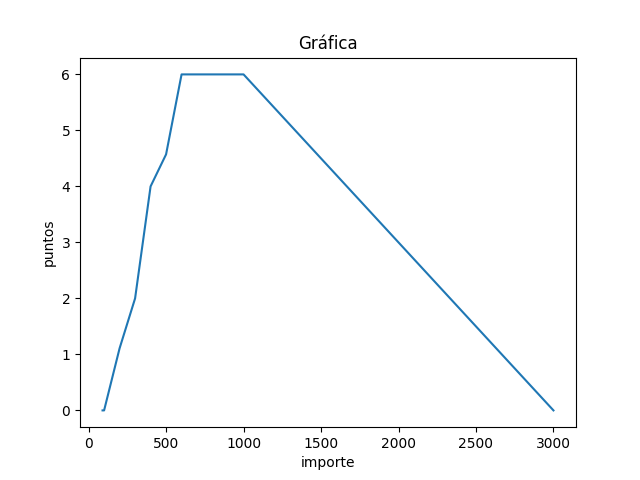
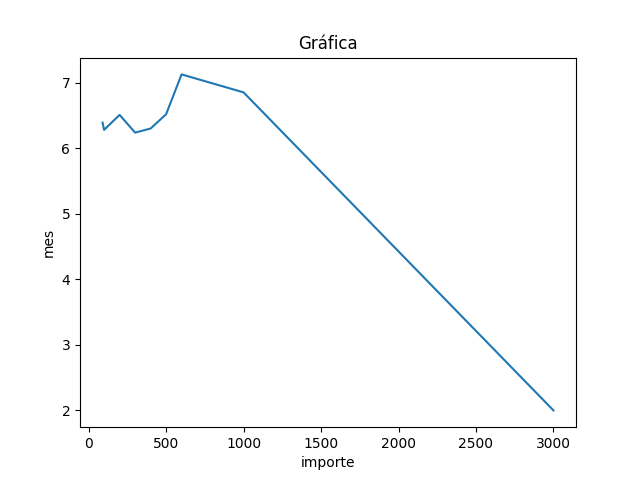
debug.analize

diff --git a/django_pandas/web_project/pandas_web/templates/pandas_web/dataset_analyze.html b/django_pandas/web_project/pandas_web/templates/pandas_web/dataset_analyze.html
@@ -27,26 +27,14 @@
             background-color: #f2f2f2;
         }
 
-        .checkbox-container {
+        .radio-container {
             display: flex;
-            justify-content: flex-end;
-            align-items: center; /* Centra verticalmente los checkboxes */
+            justify-content: center; /* Centra horizontalmente los botones de opción */
+            align-items: center; /* Centra verticalmente los botones de opción */
         }
 
-        .checkbox-container input[type="checkbox"] {
-            margin-left: 5px;
-        }
-
-        .checkbox-container {
-            display: flex;
-            justify-content: space-between; /* Distribuye el espacio entre los checkboxes */
-            align-items: center; /* Centra verticalmente los checkboxes */
-            width: 100%; /* Asegura que los checkboxes ocupen todo el ancho de la celda */
-        }
-
-        .checkbox-container input[type="checkbox"] {
-            flex: 1; /* Hace que los checkboxes ocupen el espacio disponible */
-            margin-left: 5px;
+        .radio-container input[type="radio"] {
+            margin: 0 5px; /* Espacio entre los botones de opción */
         }
 
         #chartContainer {
@@ -74,16 +62,16 @@
         <thead>
             <tr>
                 <th>Columnas</th> <!-- Etiqueta para las columnas de datos -->
-                <th>Eje X / Eje Y</th>
+                <th>EjeX / EjeY</th>
             </tr>
         </thead>
         <tbody>
            {% for column in dataset.datacolumn_set.all %}
             <tr>
                 <td>{{ column.name }} ({{ column.data_type }})</td>
-                <td class="checkbox-container">
-                    <input type="checkbox" name="columnas[]" value="{{ column.name }}">
-                    <input type="checkbox" name="columnas[]" value="{{ column.name }}">
+                <td class="radio-container">
+                    <input type="radio" name="columna_x" value="{{ column.name }}"> <!-- Usamos el nombre de la columna como valor -->
+                    <input type="radio" name="columna_y" value="{{ column.name }}"> <!-- Usamos el nombre de la columna como valor -->
                 </td>
             </tr>
             {% endfor %}
@@ -101,19 +89,22 @@
         $(document).ready(function() {
             // Manejar el clic en el botón "Analizar"
             $('#analyzeButton').click(function() {
-                var selectedColumns = [];
-                // Obtener las columnas seleccionadas
-                $('input[name="columnas[]"]:checked').each(function() {
-                    selectedColumns.push($(this).val());
-                });
+                var columnaX = $('input[name="columna_x"]:checked').val(); // Obtener el valor de la columna X seleccionada
+                var columnaY = $('input[name="columna_y"]:checked').val(); // Obtener el valor de la columna Y seleccionada
+
+                if (!columnaX || !columnaY) {
+                    alert('Por favor, seleccione una columna para Eje X y Eje Y.');
+                    return;
+                }
 
                 // Enviar la solicitud AJAX al backend
                 $.ajax({
                     type: 'POST',
-                    url: '{% url "analyze_data" dataset.pk %}',  //
+                    url: '{% url "analyze_data" dataset.pk %}',
                     data: {
                         'csrfmiddlewaretoken': '{{ csrf_token }}',
-                        'columnas[]': selectedColumns
+                        'columna_x': columnaX,
+                        'columna_y': columnaY
                     },
                     dataType: 'json',
                     success: function(response) {
@@ -130,5 +121,4 @@
     </script>
 </body>
 </html>
-
 

diff --git a/django_pandas/web_project/pandas_web/views.py b/django_pandas/web_project/pandas_web/views.py
@@ -182,19 +182,26 @@ class AnalyzeDataView(DetailView):
     def post(self, request, *args, **kwargs):
         dataset = self.get_object()
         print("Datos POST recibidos:", request.POST)
-        selected_columns = request.POST.getlist('columnas[]')  # Obtener las selecciones de los checkboxes
-        print("Columnas seleccionadas:", selected_columns)
+        columnaX = request.POST.get('columna_x')  # Obtener el valor de la columna X seleccionada
+        columnaY = request.POST.get('columna_y')  # Obtener el valor de la columna Y seleccionada
 
-        if len(selected_columns) < 2:
-            # Si no hay suficientes columnas seleccionadas, devolver un error
-            return JsonResponse({'error': 'Debes seleccionar al menos dos columnas.'}, status=400)
+        print("Columna X seleccionada:", columnaX)
+        print("Columna Y seleccionada:", columnaY)
+
+        if not columnaX or not columnaY:
+            # Si no se seleccionaron ambas columnas, devolver un error
+            return JsonResponse({'error': 'Por favor, selecciona una columna para Eje X y Eje Y.'}, status=400)
+
+        # Definir eje_x y eje_y con los valores de las columnas seleccionadas
+        eje_x = columnaX
+        eje_y = columnaY
 
         # Obtener los datos del conjunto de datos
-        relevant_columns = DataColumn.objects.filter(name__in=selected_columns, data_set=dataset)
+        relevant_columns = DataColumn.objects.filter(name__in=[eje_x, eje_y], data_set=dataset)
         data_points = DataPoint.objects.filter(column__in=relevant_columns).prefetch_related('column')
 
         # Crear un diccionario para almacenar los datos de las columnas seleccionadas
-        data = {column_name: [] for column_name in selected_columns}
+        data = {eje_x: [], eje_y: []}
 
         start_time = time.time()
 
@@ -202,26 +209,24 @@ class AnalyzeDataView(DetailView):
         with concurrent.futures.ThreadPoolExecutor(max_workers=14) as executor:
             futures = []
             for data_point in data_points:
-                futures.append(executor.submit(self.process_data_point, data_point, selected_columns, data))
+                futures.append(executor.submit(self.process_data_point, data_point, [eje_x, eje_y], data))
             concurrent.futures.wait(futures)
 
         duration = time.time() - start_time
         print(duration)
         df = pd.DataFrame(data)
 
-        # Crear un DataFrame de pandas con los datos recolectados
-        df = pd.DataFrame(data)
-
         # Convertir las columnas seleccionadas a tipos numéricos
-        df[selected_columns] = df[selected_columns].apply(pd.to_numeric, errors='coerce')
+        df[[eje_x, eje_y]] = df[[eje_x, eje_y]].apply(pd.to_numeric, errors='coerce')
+
 
         # Calcular la media
-        grouped_data = df.groupby(selected_columns[0]).mean()
+        grouped_data = df.groupby(eje_x).mean()
 
         # Generar la gráfica
-        plt.plot(grouped_data.index, grouped_data[selected_columns[1]])
-        plt.xlabel(selected_columns[0])
-        plt.ylabel(selected_columns[1])
+        plt.plot(grouped_data.index, grouped_data[eje_y])
+        plt.xlabel(eje_x)
+        plt.ylabel(eje_y)
         plt.title('Gráfica')
 
         # Guardar la gráfica como una imagen
@@ -231,3 +236,4 @@ class AnalyzeDataView(DetailView):
 
         # Devolver la ruta de la imagen como parte de la respuesta JSON
         return JsonResponse({'imagen_ruta': '/media/grafica.png'})
+
